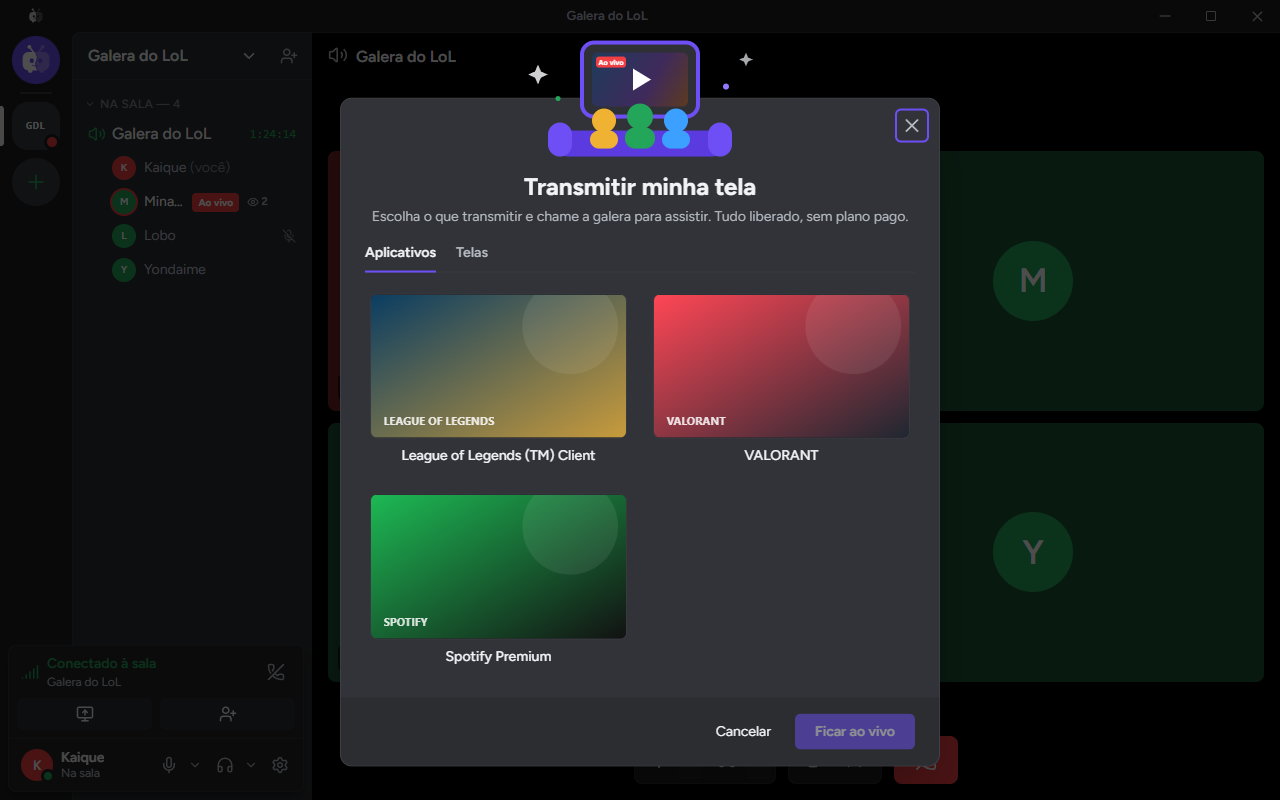
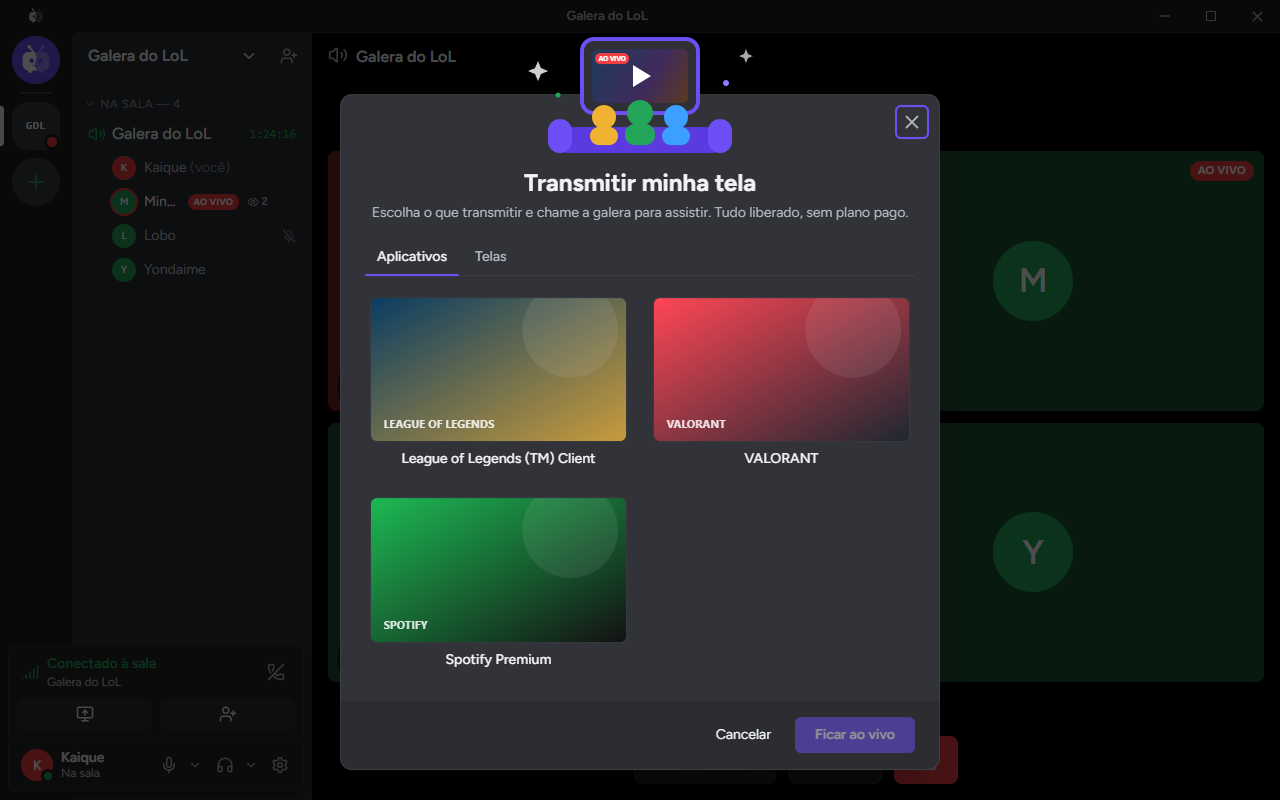
docs: README e site da versão 0.7 (#56)
Textos da 0.7 (a live como quadro da sala, com menu e detalhes em gráficos, e os efeitos que se misturam, também no resumo em inglês) e capturas novas: a live na grade e os detalhes da transmissão. As cenas de demonstração ganharam a live no ar e os detalhes.

diff --git a/apps/desktop/src/dev/demo.ts b/apps/desktop/src/dev/demo.ts
@@ -1,7 +1,7 @@
 /**
  * Cenas de demonstração para as capturas do README (só no `yarn dev`, nunca no instalador):
- * `http://localhost:1420/#demo=sala`, `#demo=transmitir`, `#demo=config`, `#demo=amigos`, `#demo=conversa`
- * ou `#demo=servidor`.
+ * `http://localhost:1420/#demo=sala`, `#demo=transmitir`, `#demo=config`, `#demo=amigos`, `#demo=conversa`,
+ * `#demo=servidor`, `#demo=transmitindo` ou `#demo=detalhes`.
  * Preenche as stores com uma sala de exemplo, sem precisar do Rust.
  */
 import { useAccountStore } from "../account/account-store";
@@ -10,7 +10,7 @@ import { useFriendsStore } from "../friends/friends-store";
 import { useAppearanceStore } from "../settings/appearance-store";
 import { useRoomStore } from "../room/room-store";
 import { useServersStore } from "../servers/servers-store";
-import { type Source, sourceKey, useStreamStore } from "../stream/stream-store";
+import { type Source, type StreamStats, sourceKey, useStreamStore } from "../stream/stream-store";
 
 // Lobo e Yondaime assistem o Minato: o 👁 2 aparece ao lado do "Ao vivo".
 const MEMBERS = [
@@ -149,6 +149,53 @@ const CONVERSATIONS = [
   },
 ];
 
+/** Um minuto de medições da nossa live (a cada 500 ms), com cara de partida de verdade. */
+function liveHistory(): StreamStats[] {
+  return Array.from({ length: 120 }, (_, i) => ({
+    rttMs: 18,
+    audioActive: true,
+    audioError: null,
+    audioKbps: 128,
+    audioLevel: 0.42 + 0.2 * Math.abs(Math.sin(i / 3)),
+    audioLost: 0,
+    sourceFps: 144,
+    fps: 30 - (i % 37 === 0 ? 2 : 0),
+    bitrateKbps: 4200 + 900 * Math.sin(i / 9) + 250 * Math.sin(i / 2.3),
+    encodeMs: 1.6 + 0.5 * Math.sin(i / 4) + 0.15 * Math.sin(i * 1.7),
+    latencyMs: 13 + 3 * Math.sin(i / 7) + 1.2 * Math.sin(i * 1.3),
+    latencyP95Ms: 22,
+    dropped: 0,
+    width: 1280,
+    height: 720,
+    encoder: "NVIDIA H.264 Encoder MFT",
+  }));
+}
+
+/** A nossa live no ar: no lugar do vídeo nativo (que não existe no navegador), uma imagem do jogo. */
+function goLive() {
+  const history = liveHistory();
+  useStreamStore.setState({
+    status: "live",
+    quality: { resolution: "720", fps: 30 },
+    stats: history.at(-1),
+    history,
+    system: { gpu3d: 64, gpuEncode: 17, gpuDecode: 0, cpu: 22 },
+    current: { source: SOURCES[0].id, audioPid: 1, lastAudioPid: 1 },
+  });
+  useRoomStore.setState({
+    members: MEMBERS.map((m) =>
+      m.id === "eu" ? { ...m, live: true } : { ...m, watching: m.id === "a" ? null : "eu" },
+    ),
+  });
+  setTimeout(() => {
+    const area = document.querySelector<HTMLElement>('[data-testid="area-do-video"]');
+    if (area) {
+      area.style.background = `center / cover url("${thumbnail("#0a3d62", "#c89b3c", "")}")`;
+      area.replaceChildren();
+    }
+  }, 250);
+}
+
 /** Respostas de mentira do Rust, para as telas que perguntam algo a ele. */
 const FAKE_COMMANDS: Record<string, unknown> = {
   diagnostics_status: { enabled: true, files: 3 },
@@ -208,6 +255,7 @@ export function runDemo(scene: string) {
     });
   }
   if (scene === "servidor") useServersStore.setState({ servers: SERVERS, selected: "s1" });
+  if (scene === "transmitindo" || scene === "detalhes") goLive();
   // Espera a interface montar antes de abrir os modais.
   setTimeout(() => {
     // Na sala, o nome e os controles só aparecem com o mouse em cima (como no Discord).
@@ -218,5 +266,18 @@ export function runDemo(scene: string) {
     if (scene === "sala" || scene === "servidor") click("Pôr Lobo em foco");
     if (scene === "transmitir") click("Transmitir minha tela");
     if (scene === "config") click("Configurações");
+    // Os detalhes da live abrem pelo menu dela (botão direito no quadro).
+    if (scene === "detalhes") {
+      document
+        .querySelector("[data-stream-tile]")
+        ?.dispatchEvent(new MouseEvent("contextmenu", { bubbles: true, clientX: 400, clientY: 300 }));
+      setTimeout(
+        () =>
+          [...document.querySelectorAll<HTMLElement>('[role="menuitem"]')]
+            .find((i) => i.textContent?.includes("Detalhes da transmissão"))
+            ?.click(),
+        200,
+      );
+    }
   }, 300);
 }

diff --git a/site/index.html b/site/index.html
@@ -256,7 +256,7 @@
 
       <main>
         <div class="hero">
-          <span class="pill"><b>NOVO</b> Versão 0.6.0: servidores e conversas privadas</span>
+          <span class="pill"><b>NOVO</b> Versão 0.7.0: a sua live dentro da sala</span>
           <h1>Compartilhe a tela do jogo com a galera da call</h1>
           <p class="lead">
             Até 1440p60, com baixa latência e quase sem pesar no jogo. O vídeo e a voz vão direto de um PC para o outro,

diff --git a/README.md b/README.md
@@ -35,7 +35,7 @@
 </p>
 
 > [!NOTE]
-> **Versão 0.6: servidores e conversas privadas.** Crie um servidor para a turma, com salas de voz fixas, convites, administradores e um ícone recortado do jeito que você quiser. Converse no privado com os amigos e mande fotos, vídeos e arquivos, direto de PC para PC: nada passa por servidor, e o histórico fica só no seu PC. A live também pode ir para uma janelinha (picture in picture), quem fala ganha um efeito com a cor que escolher, e dá para limpar o cache de cada parte do app. A sala inteira distribuindo o vídeo (salas sem limite) chega na [Fase 3](docs/roadmap.md). Achou um problema? [Abra uma issue](https://github.com/Kaique292/squadview/issues).
+> **Versão 0.7: a sua live dentro da sala, como no Discord.** Transmitindo, a sua tela vira um quadro da sala, com a qualidade e o AO VIVO no canto: clique para pôr em foco e use o botão direito para parar, trocar o que transmite, mudar a qualidade ou ligar o som, sem sair do ar. Os detalhes da live ganharam gráficos do último minuto e barras de uso da GPU e da CPU. Também chegaram o checkbox e as abas animadas, efeitos de fala que se misturam quando duas pessoas falam juntas e o ícone do servidor voltou a abrir a imagem. A sala inteira distribuindo o vídeo (salas sem limite) chega na [Fase 3](docs/roadmap.md). Achou um problema? [Abra uma issue](https://github.com/Kaique292/squadview/issues).
 
 ## ✨ O que ele faz
 
@@ -45,9 +45,10 @@
 - **Direto de PC para PC.** O vídeo não passa por servidor. As conexões são cifradas (QUIC com TLS 1.3).
 - **Jogue do jeito que quiser.** Janela, sem bordas ou tela cheia: escolha o jogo uma vez e o app acompanha sozinho do cliente para a partida e de volta (LoL, Valorant e jogos com launcher). Nada é injetado no jogo, então é seguro com Vanguard, EAC e BattlEye.
 - **Só o áudio do jogo.** Transmitindo um jogo ou app, vai só o som dele, e o som acompanha quando o jogo troca de janela; o som da call fica de fora.
+- **A sua live na sala**, como no Discord: transmitindo, a sua tela vira um quadro da sala, com a qualidade e o AO VIVO no canto. Clique para pôr em foco, dois cliques para a tela cheia e o botão direito para parar, trocar o que transmite, mudar a qualidade ou ligar e desligar o som, sem sair do ar. Os detalhes mostram o último minuto em gráficos (fps, bitrate, latência e encode) e o uso da GPU e da CPU em barras.
 - **Assista dentro do app**, como no Discord: o vídeo aparece na janela, com tela cheia, volume de até 200% e estatísticas (fps, bitrate, latência e ping). Quem transmite vê quantos e quem estão assistindo. Quer jogar enquanto assiste? Mande a live para uma **janelinha por cima de tudo** (picture in picture).
 - **Funciona atrás de CGNAT.** Se a conexão direta não fecha (internet da operadora, 4G), o app tenta por IPv6 e, se ainda não der, recebe o vídeo por alguém da sala que já está assistindo. Há também um repassador na nuvem pronto para ligar ([ADR 0014](docs/adr/0014-conexao-em-camadas.md)).
-- **Chat de voz na sala.** A sala é um canal de voz como o do Discord: um quadro por pessoa, borda verde (ou o efeito que você escolher, com a cor que quiser) em quem fala, mudo e surdo, e clique num quadro para pôr a pessoa em foco. Volume e silenciar por pessoa (só para você), isolamento de voz contra teclado e ventilador e controle automático de ganho, para todo mundo chegar no mesmo volume. A voz também vai direto de PC para PC.
+- **Chat de voz na sala.** A sala é um canal de voz como o do Discord: um quadro por pessoa, borda verde (ou o efeito que você escolher, com a cor que quiser; quando duas pessoas falam lado a lado, as cores se misturam onde os efeitos se tocam) em quem fala, mudo e surdo, e clique num quadro para pôr a pessoa em foco. Volume e silenciar por pessoa (só para você), isolamento de voz contra teclado e ventilador e controle automático de ganho, para todo mundo chegar no mesmo volume. A voz também vai direto de PC para PC.
 - **Amigos.** Veja quem está online, numa sala ou transmitindo. Peça para entrar na sala de um amigo (qualquer pessoa da sala aceita), chame amigos para a sua e marque quem entra direto. Adicione direto pelo botão direito em quem está na sala com você, ou depois, em Recentes.
 - **Servidores com salas fixas.** Crie um servidor para a turma, com salas de voz que ficam lá mesmo vazias. Chame a galera por um link de convite, escolha administradores e dê um ícone ao servidor, ajustando o recorte, a posição e o zoom.
 - **Conversas privadas.** Mande mensagens, fotos, vídeos e arquivos para um amigo, direto de PC para PC: nem o texto passa por servidor, e o histórico fica só no seu PC. Fotos pequenas aparecem sozinhas; arquivos grandes e vídeos esperam você clicar em Baixar. O que você mandar com o amigo offline fica esperando e vai quando ele aparecer.
@@ -66,6 +67,14 @@
 - **Bot do Discord (Fase 5)** avisando no servidor quando alguém começar a transmitir.
 
 ## 📸 Telas
+
+<p align="center">
+  <img src="docs/images/tela-transmitindo.png" alt="A sua live como um quadro da sala, com 720P 30FPS e AO VIVO em pílula no canto, ao lado dos amigos na voz" width="90%">
+</p>
+
+<p align="center">
+  <img src="docs/images/tela-detalhes.png" alt="Detalhes da transmissão: fps, bitrate, latência e tempo de encode com o gráfico do último minuto, e o uso do encoder, da GPU e da CPU em barras" width="90%">
+</p>
 
 <p align="center">
   <img src="docs/images/tela-sala.png" alt="Sala do SquadView como canal de voz, com um amigo em foco no centro e os outros numa faixa embaixo, como no Discord" width="90%">
@@ -227,7 +236,7 @@ As miniaturas das janelas usam o crate `jpeg-encoder`: _this software is based i
 
 There is **no media server**: video goes directly between PCs over QUIC, with UDP hole punching. The plan (Phase 3) is for the room itself to distribute the video: members with spare upload relay already-encoded packets, and members on weak connections get a 720p layer. A tiny free signaling service (Cloudflare Worker) only helps peers find each other; no video goes through it.
 
-- **Status:** version 0.6. One friend streams and the rest of the room watches inside the app, directly PC to PC (NVIDIA and AMD), with a live viewer count. Members behind CGNAT connect over IPv6 or get the stream relayed by someone already watching; an optional cloud TURN relay is ready to turn on. The room is a Discord-like voice channel (peer-to-peer Opus voice with noise suppression), with friends, presence, "ask to join" requests, custom speaking effects, picture-in-picture, notification sounds and a system tray icon. Servers with persistent voice rooms, invites, roles and cropped icons; private peer-to-peer messages with files (no server in between, history kept locally). Discord login, invite links, Rich Presence and a silent Discord-style installer. Full room-wide relaying (mesh) is Phase 3. See the [roadmap](docs/roadmap.md).
+- **Status:** version 0.7. One friend streams and the rest of the room watches inside the app, directly PC to PC (NVIDIA and AMD), with a live viewer count. Members behind CGNAT connect over IPv6 or get the stream relayed by someone already watching; an optional cloud TURN relay is ready to turn on. The room is a Discord-like voice channel (peer-to-peer Opus voice with noise suppression), with friends, presence, "ask to join" requests, custom speaking effects that blend where they touch, picture-in-picture, notification sounds and a system tray icon. Servers with persistent voice rooms, invites, roles and cropped icons; private peer-to-peer messages with files (no server in between, history kept locally). Discord login, invite links, Rich Presence and a silent Discord-style installer. Your own stream shows up as a tile in the room (Discord-style), with a right-click menu to stop, switch source, change quality or toggle audio without going offline, and a details view with live charts. Full room-wide relaying (mesh) is Phase 3. See the [roadmap](docs/roadmap.md).
 - **Stack:** Rust core, Tauri v2, React 19 + Tailwind v4, QUIC (quinn) peer-to-peer mesh, Cloudflare Worker for signaling.
 - **Contributing:** PRs target the `dev` branch and use [Conventional Commits](https://www.conventionalcommits.org/). Docs are in Portuguese; issues and PRs in English are welcome too.
 - **Support:** [Buy Me a Coffee](https://buymeacoffee.com/kaiqueamaral).

diff --git a/docs/desenvolvimento.md b/docs/desenvolvimento.md
@@ -83,7 +83,7 @@ docs/                 documentação, ADRs, design e imagens
 
 ## Capturas do README e imagem de prévia do site
 
-- **Capturas das telas:** com o `yarn dev` rodando, abra `http://localhost:1420/#demo=sala` (ou `#demo=transmitir`, `#demo=config`, `#demo=amigos`, `#demo=conversa`, `#demo=servidor`). O modo de demonstração (`apps/desktop/src/dev/demo.ts`, só no dev) preenche a interface com uma sala de exemplo. Para gerar o PNG sem abrir janela:
+- **Capturas das telas:** com o `yarn dev` rodando, abra `http://localhost:1420/#demo=sala` (ou `#demo=transmitir`, `#demo=config`, `#demo=amigos`, `#demo=conversa`, `#demo=servidor`, `#demo=transmitindo`, `#demo=detalhes`). O modo de demonstração (`apps/desktop/src/dev/demo.ts`, só no dev) preenche a interface com uma sala de exemplo. Para gerar o PNG sem abrir janela:
 
   ```powershell
   & "C:\Program Files (x86)\Microsoft\Edge\Application\msedge.exe" --headless=new --hide-scrollbars --window-size=1280,800 --virtual-time-budget=6000 --screenshot=docs\images\tela-sala.png "http://localhost:1420/#demo=sala"
